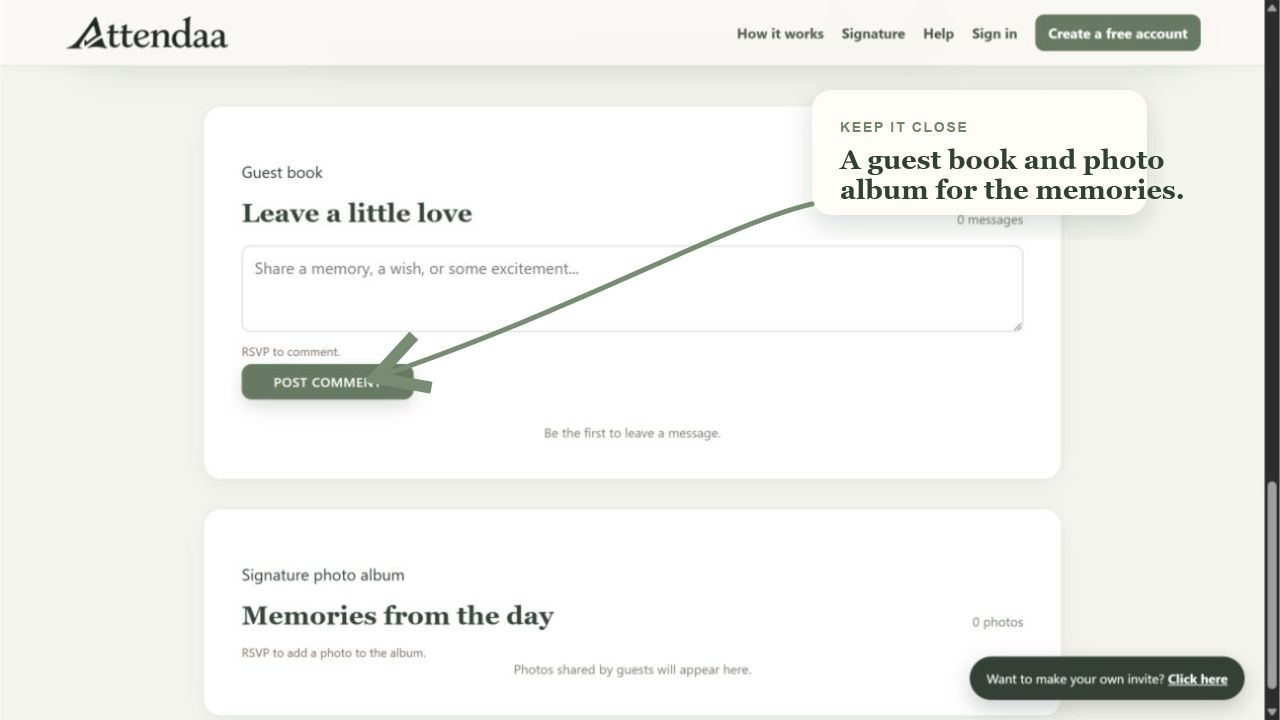
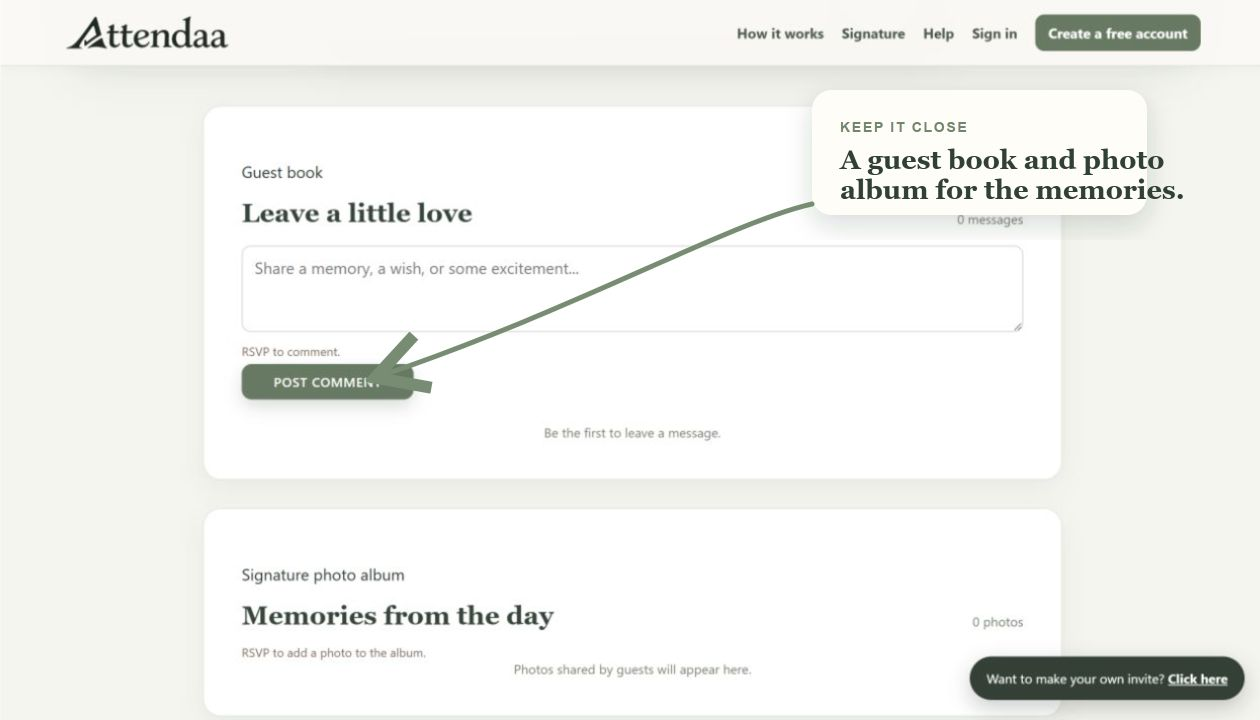
Use Hub capture in marketing walkthrough

diff --git a/src/pages/Landing.jsx b/src/pages/Landing.jsx
@@ -60,7 +60,7 @@ export default function Landing() {
         <p className="landing-eyebrow">BUILT FOR FAMILY MILESTONES</p>
         <h2>From invite to headcount in three simple steps.</h2>
         <div className="landing-walkthroughs">
-          <article><img src="/marketing/attendaa-live-invitation-story.png" alt="Real Attendaa Sunday Brunch invitation page" /><div><span>01 · MAKE IT YOURS</span><h3>Start with the details, then choose the feeling.</h3><p>Add your flyer, date, place, and the invitation look that fits your celebration.</p></div></article>
+          <article><img src="/marketing/brunch-live-hub-styles.png" alt="Real Attendaa Hub styling controls" /><div><span>01 · MAKE IT YOURS</span><h3>Start with the details, then choose the feeling.</h3><p>Add your flyer, date, place, and the invitation look that fits your celebration.</p></div></article>
           <article><img src="/marketing/attendaa-live-rsvp-story.png" alt="Real Attendaa RSVP page with a Send RSVP callout" /><div><span>02 · SHARE ONE LINK</span><h3>Give guests a page they’ll actually want to open.</h3><p>Text it, add it to an invitation, or share it anywhere your people are gathering.</p></div></article>
           <article><img src="/marketing/attendaa-live-guestbook-story.png" alt="Real Attendaa guest book and photo album page section" /><div><span>03 · KEEP THE CELEBRATION CLOSE</span><h3>More than a headcount.</h3><p>Signature can turn the invite into a guest book and photo album guests return to.</p></div></article>
         </div>
